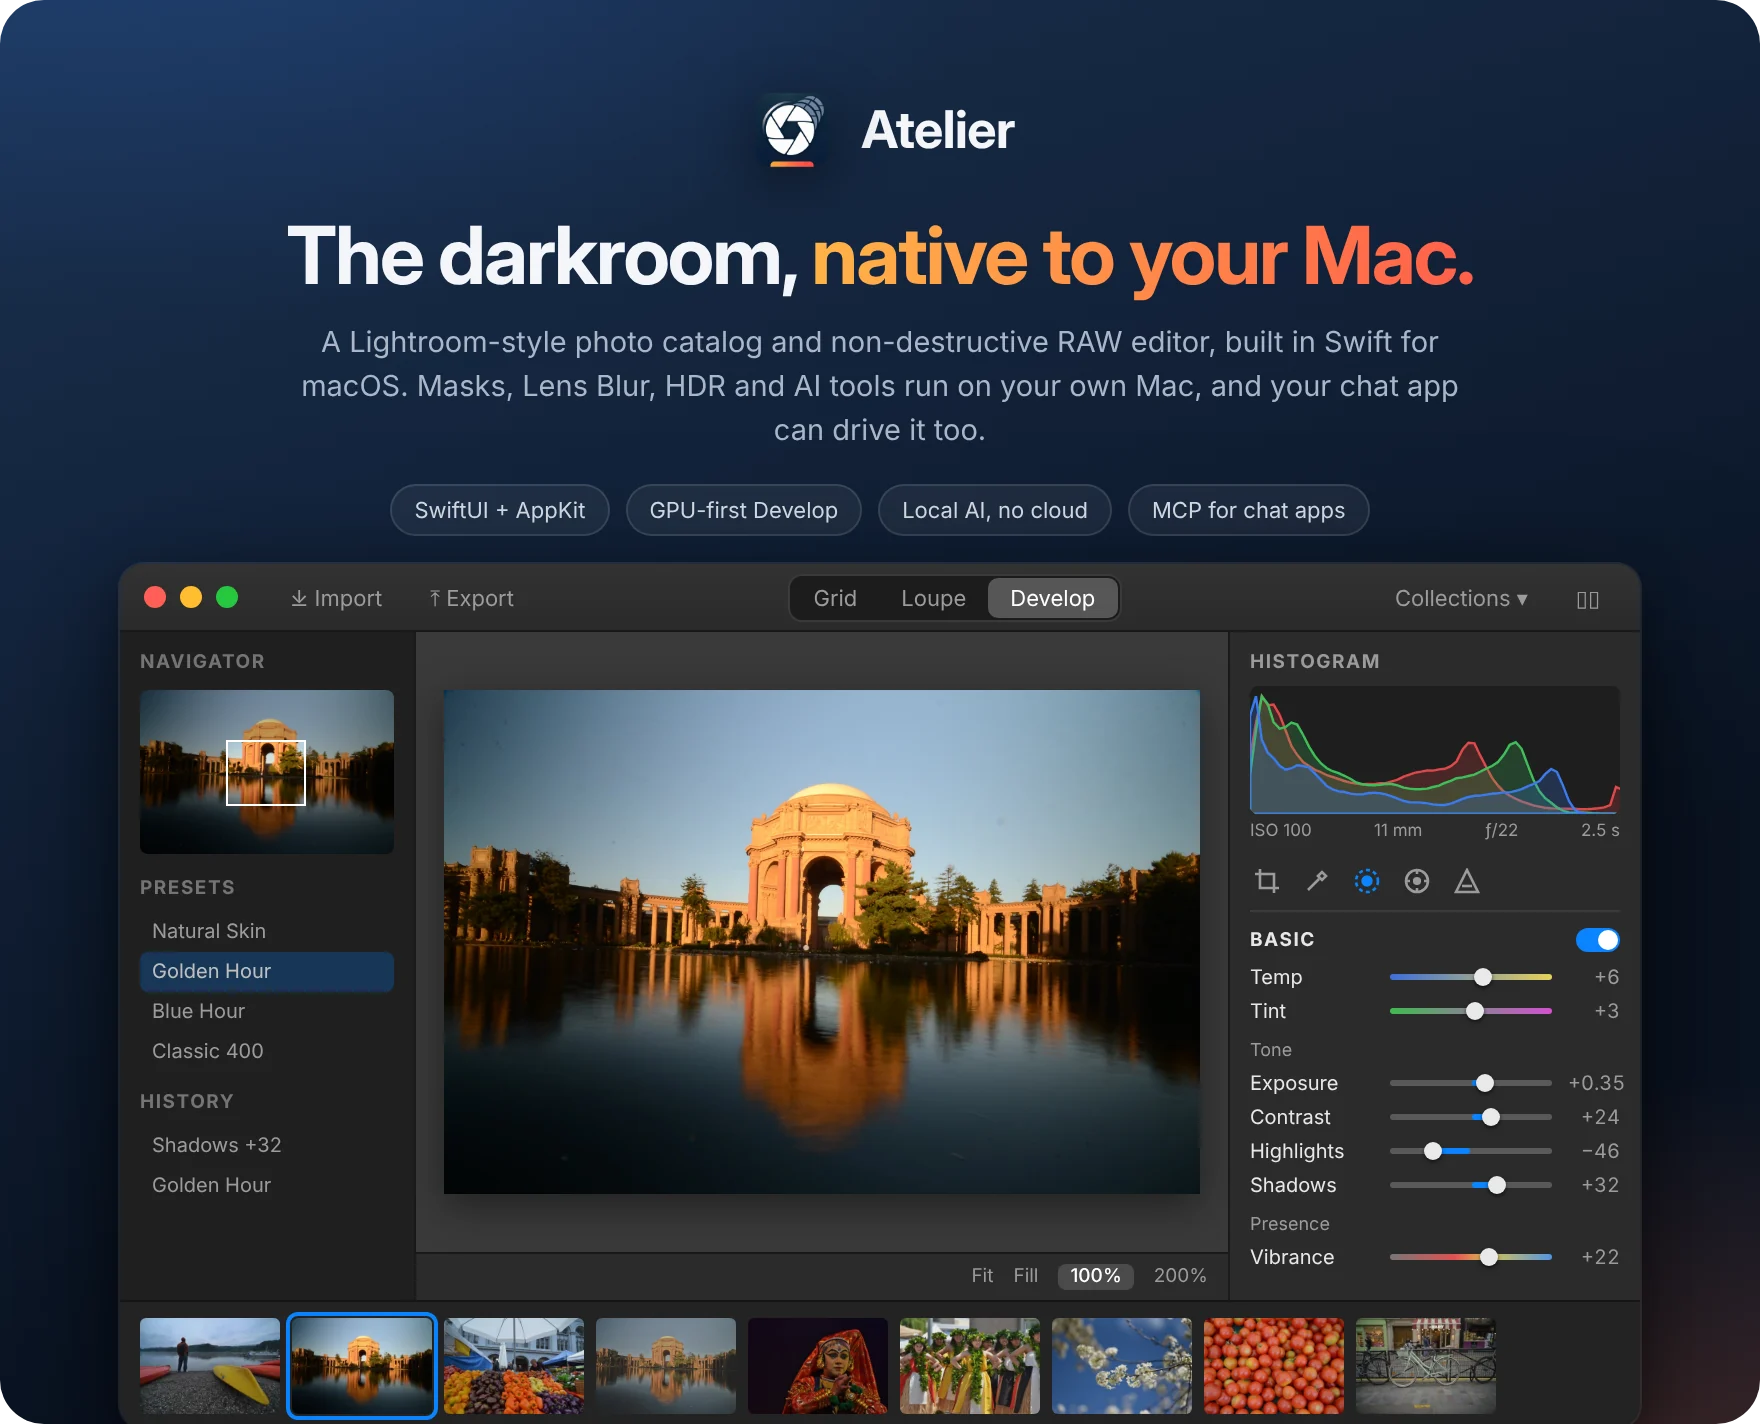
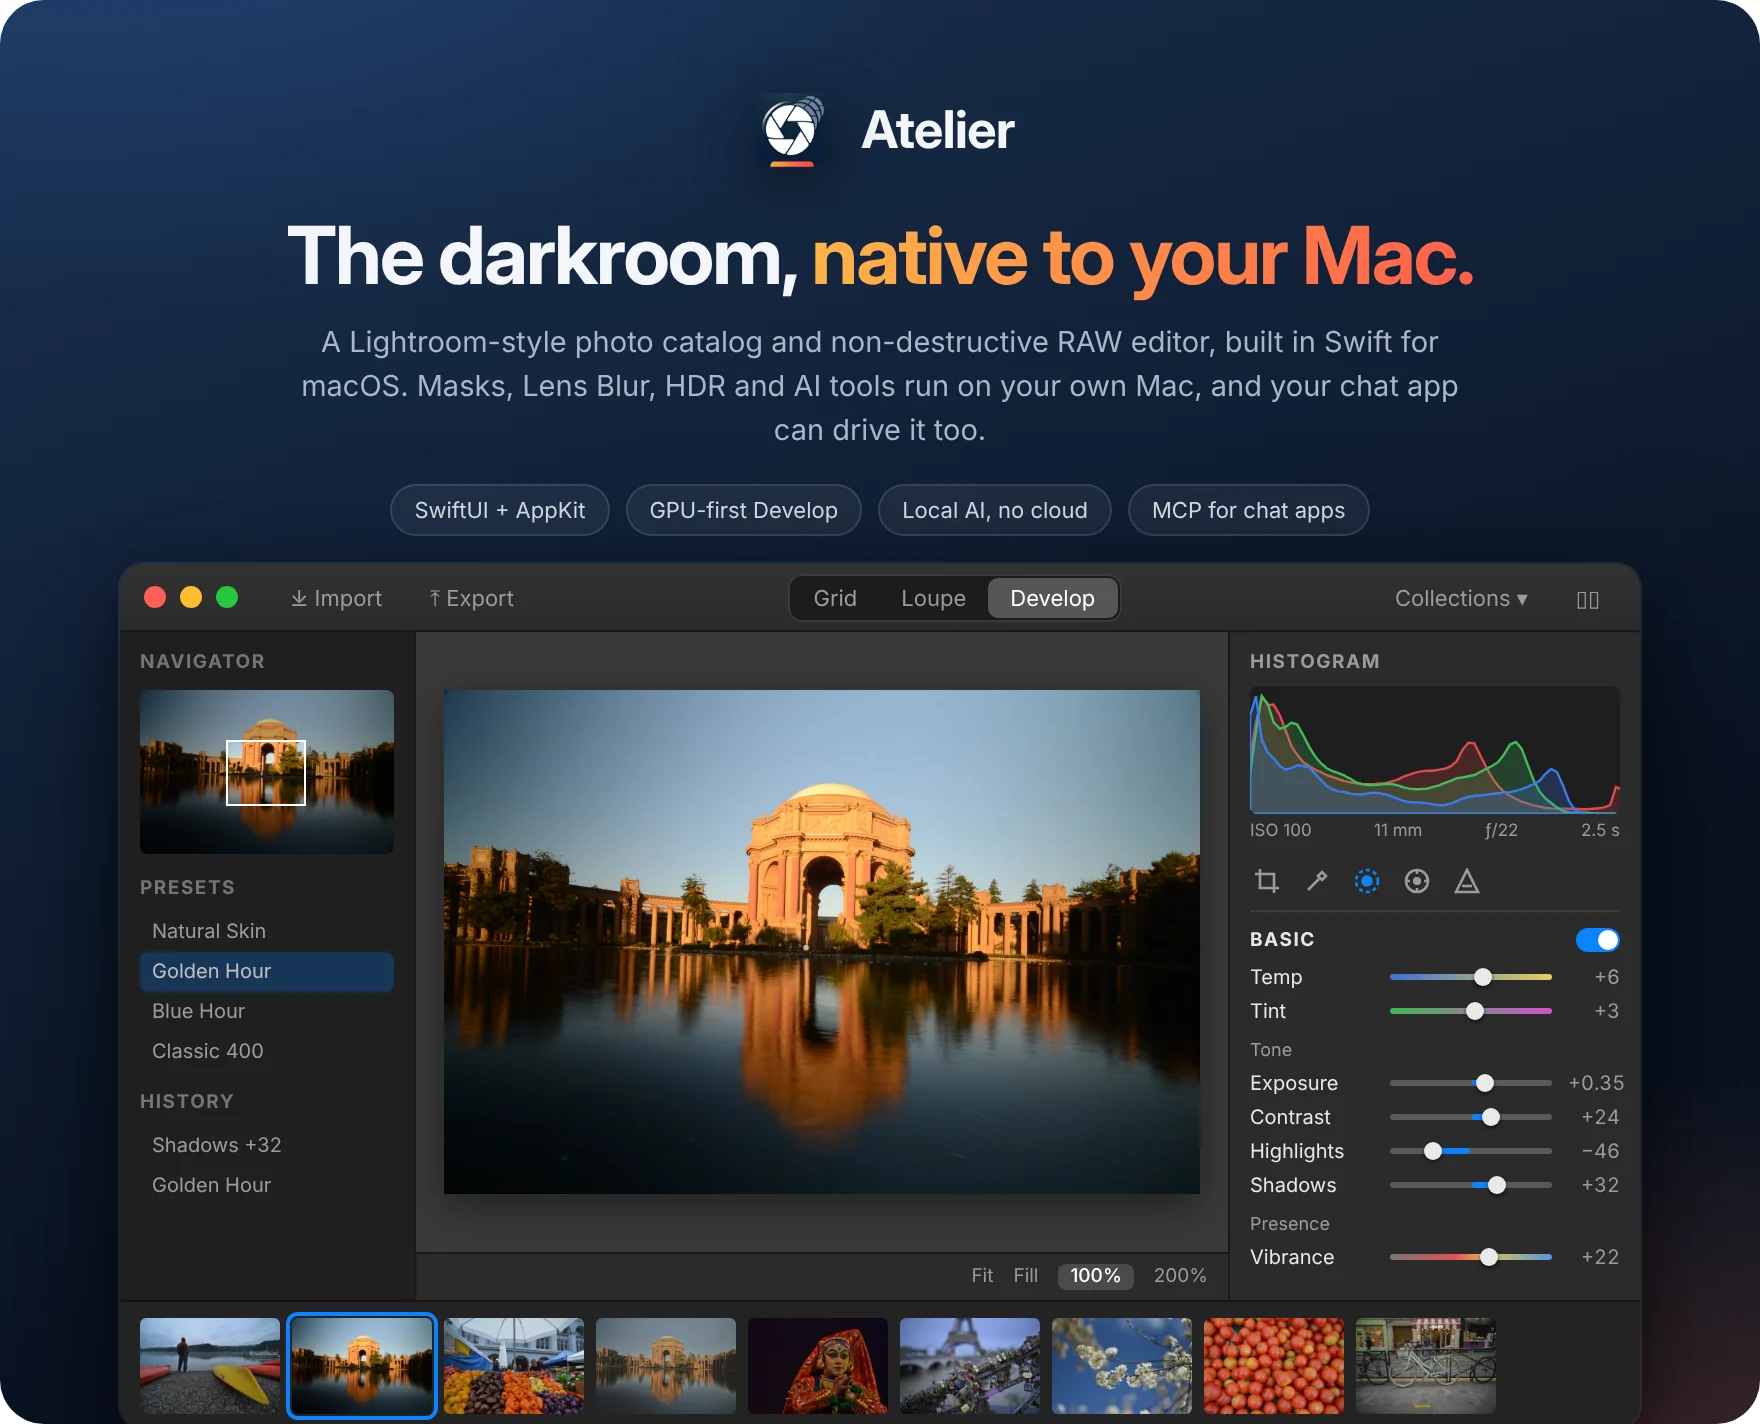
Help and README: strangers only (no family), new portrait scenes, Select Subject on the finch
Claude-Session: https://claude.ai/code/session_013w17eCR9WLeFMeHaTedCsn

Changed region(s): [[0.5, 0.927, 0.5938, 1.0]]

diff --git a/Sources/AtelierApp/Help/import.html b/Sources/AtelierApp/Help/import.html
@@ -94,7 +94,7 @@
     <div style="position:relative;background:#262626;height:300px;overflow:hidden">
       <div style="display:grid;grid-template-columns:repeat(6,minmax(0,1fr));gap:5px;padding:8px" data-pin="1">
         <div style="position:relative"><img src="images/thumbs/market.jpg" alt="" style="width:100%;aspect-ratio:4/3;object-fit:cover;border-radius:3px"><span style="position:absolute;right:3px;bottom:3px;color:#fff;background:#30d158;border-radius:50%;width:13px;height:13px;font-size:9px;text-align:center;line-height:13px">✓</span></div>
-        <div style="position:relative"><img src="images/thumbs/dancers.jpg" alt="" style="width:100%;aspect-ratio:4/3;object-fit:cover;border-radius:3px"><span style="position:absolute;right:3px;bottom:3px;color:#fff;background:#30d158;border-radius:50%;width:13px;height:13px;font-size:9px;text-align:center;line-height:13px">✓</span></div>
+        <div style="position:relative"><img src="images/thumbs/locks.jpg" alt="" style="width:100%;aspect-ratio:4/3;object-fit:cover;border-radius:3px"><span style="position:absolute;right:3px;bottom:3px;color:#fff;background:#30d158;border-radius:50%;width:13px;height:13px;font-size:9px;text-align:center;line-height:13px">✓</span></div>
         <div style="position:relative"><img src="images/thumbs/tomatoes.jpg" alt="" style="width:100%;aspect-ratio:4/3;object-fit:cover;border-radius:3px"><span style="position:absolute;right:3px;bottom:3px;color:#fff;background:#30d158;border-radius:50%;width:13px;height:13px;font-size:9px;text-align:center;line-height:13px">✓</span></div>
         <div style="position:relative"><img src="images/thumbs/golden-gate.jpg" alt="" style="width:100%;aspect-ratio:4/3;object-fit:cover;border-radius:3px"><span style="position:absolute;right:3px;bottom:3px;color:#fff;background:#30d158;border-radius:50%;width:13px;height:13px;font-size:9px;text-align:center;line-height:13px">✓</span></div>
         <div style="position:relative"><img src="images/thumbs/palace.jpg" alt="" style="width:100%;aspect-ratio:4/3;object-fit:cover;border-radius:3px"><span style="position:absolute;right:3px;bottom:3px;color:#fff;background:#30d158;border-radius:50%;width:13px;height:13px;font-size:9px;text-align:center;line-height:13px">✓</span></div>
@@ -106,7 +106,7 @@
         <div style="position:relative"><img src="images/thumbs/rose.jpg" alt="" style="width:100%;aspect-ratio:4/3;object-fit:cover;border-radius:3px;opacity:.3;filter:grayscale(1)"></div>
         <div style="position:relative"><img src="images/thumbs/kathakali-face.jpg" alt="" style="width:100%;aspect-ratio:4/3;object-fit:cover;border-radius:3px;opacity:.3;filter:grayscale(1)"></div>
         <div style="position:relative"><img src="images/thumbs/lake-bw.jpg" alt="" style="width:100%;aspect-ratio:4/3;object-fit:cover;border-radius:3px;opacity:.3;filter:grayscale(1)"></div>
-        <div style="position:relative"><img src="images/thumbs/fog-2.jpg" alt="" style="width:100%;aspect-ratio:4/3;object-fit:cover;border-radius:3px;opacity:.3;filter:grayscale(1)"></div>
+        <div style="position:relative"><img src="images/thumbs/temple-2.jpg" alt="" style="width:100%;aspect-ratio:4/3;object-fit:cover;border-radius:3px;opacity:.3;filter:grayscale(1)"></div>
         <div style="position:relative"><img src="images/thumbs/lanterns.jpg" alt="" style="width:100%;aspect-ratio:4/3;object-fit:cover;border-radius:3px;opacity:.3;filter:grayscale(1)"></div>
         <div style="position:relative"><img src="images/thumbs/blossoms.jpg" alt="" style="width:100%;aspect-ratio:4/3;object-fit:cover;border-radius:3px;opacity:.3;filter:grayscale(1)"></div>
         <div style="position:relative"><img src="images/thumbs/palace.jpg" alt="" style="width:100%;aspect-ratio:4/3;object-fit:cover;border-radius:3px;opacity:.3;filter:grayscale(1)"></div>

diff --git a/Sources/AtelierApp/Help/cull.html b/Sources/AtelierApp/Help/cull.html
@@ -44,8 +44,8 @@
           </div></div>
         <div><div style="color:#aaa;margin-bottom:4px">Same frame · 2 photos</div>
           <div style="display:flex;gap:5px">
-            <div style="position:relative;width:24%"><img src="images/thumbs/fog-1.jpg" alt="" style="border-radius:3px"><span style="position:absolute;right:3px;top:2px;color:#fff;background:#0a84ff;border-radius:50%;width:14px;height:14px;font-size:9px;text-align:center;line-height:14px">✓</span></div>
-            <img src="images/thumbs/fog-2.jpg" alt="" style="width:24%;border-radius:3px;opacity:.45">
+            <div style="position:relative;width:24%"><img src="images/thumbs/temple-1.jpg" alt="" style="border-radius:3px"><span style="position:absolute;right:3px;top:2px;color:#fff;background:#0a84ff;border-radius:50%;width:14px;height:14px;font-size:9px;text-align:center;line-height:14px">✓</span></div>
+            <img src="images/thumbs/temple-2.jpg" alt="" style="width:24%;border-radius:3px;opacity:.45">
           </div></div>
         <div><div style="color:#aaa;margin-bottom:4px">Single shots</div>
           <div style="display:flex;gap:5px"><img src="images/thumbs/golden-gate.jpg" alt="" style="width:16%;border-radius:3px"><img src="images/thumbs/clown.jpg" alt="" style="width:24%;border-radius:3px"></div></div>

diff --git a/Sources/AtelierApp/Help/workspace.html b/Sources/AtelierApp/Help/workspace.html
@@ -38,7 +38,7 @@
           <div class="cell"><img src="images/thumbs/palace.jpg" alt=""><div class="meta"><span>★</span><span></span></div></div>
           <div class="cell"><img src="images/thumbs/blossoms.jpg" alt=""><div class="meta"><span></span><span></span></div></div>
           <div class="cell"><img src="images/thumbs/tomatoes.jpg" alt=""><div class="meta"><span>★★★</span><span>✦ AI</span></div></div>
-          <div class="cell" style="opacity:.45"><img src="images/thumbs/dancers.jpg" alt=""><div class="meta"><span>✕</span><span></span></div></div>
+          <div class="cell" style="opacity:.45"><img src="images/thumbs/locks.jpg" alt=""><div class="meta"><span>✕</span><span></span></div></div>
         </div>
         <div class="status" data-pin="7"><span>42 photos · 1 selected</span><span>Imported 42 photos</span></div>
       </div>

diff --git a/Scripts/readme/hero.html b/Scripts/readme/hero.html
@@ -98,7 +98,7 @@
       <div style="background-image:url(../../Sources/AtelierApp/Help/images/thumbs/market.jpg)"></div>
       <div style="background-image:url(../../Sources/AtelierApp/Help/images/hdr-after.jpg)"></div>
       <div style="background-image:url(../../Sources/AtelierApp/Help/images/thumbs/kathakali.jpg)"></div>
-      <div style="background-image:url(../../Sources/AtelierApp/Help/images/thumbs/dancers.jpg)"></div>
+      <div style="background-image:url(../../Sources/AtelierApp/Help/images/thumbs/locks.jpg)"></div>
       <div style="background-image:url(../../Sources/AtelierApp/Help/images/thumbs/blossoms.jpg)"></div>
       <div style="background-image:url(../../Sources/AtelierApp/Help/images/thumbs/tomatoes.jpg)"></div>
       <div style="background-image:url(../../Sources/AtelierApp/Help/images/thumbs/bikes.jpg)"></div>

diff --git a/Scripts/help/prepare_photos.py b/Scripts/help/prepare_photos.py
@@ -39,14 +39,13 @@ PHOTOS = {
     "snow": ("DSC_0211", 2400),        # Chromatic aberration, Defringe
     "bay": ("RHN_3172", 1600),         # Straighten, Match Look
     "cars": ("DSC_0264", 1600),        # AI Remove Object
-    "bench": ("RDV_1309", 1600),       # Select Subject / Background
     "flower": ("DSC_0425", 1600),      # Post-crop vignette
     # Library, Grid, Filmstrip and Cull thumbnails
     "kayaks": ("DSC_0052", 800),
     "clown": ("DSC_0243", 800),
     "blossoms": ("RDV_7677", 800),
     "golden-gate": ("DSC_0099", 800),
-    "dancers": ("DSC_0037", 800),
+    "locks": ("_RZF1292", 800),
     "tomatoes": ("DSC_4803", 800),
     "lanterns": ("RDV_1489", 800),
     "bikes": ("_RZF0876", 800),
@@ -55,16 +54,16 @@ PHOTOS = {
     "flower-2": ("DSC_0426", 800),
     "flower-3": ("DSC_0433", 800),
     "flower-4": ("DSC_0425", 800),
-    "fog-1": ("DSC_0568", 800),        # Cull: same frame, a second apart
-    "fog-2": ("DSC_0569", 800),
+    "temple-1": ("RDV_1302", 800),     # Cull: same frame, a moment apart
+    "temple-2": ("RDV_1303", 800),
 }
 
 # Preset Lookbook and Match Look scenes (Scripts/presets/scenes): name: (NEF, crop x, y, w, h
-# as fractions or None). No children: the repo is public (Rosh, 2026-11-19).
+# as fractions or None). People: strangers only, no children and no family (Rosh, 2026-11-19).
 SCENES_OUT = os.path.join(os.path.dirname(os.path.dirname(os.path.abspath(__file__))), "presets", "scenes")
 SCENES = {
-    "portrait": ("DSC_0314", (0.22, 0.17, 0.54, 0.75)),        # a couple by the sea, faces large
-    "portrait-light": ("DSC_0315", (0.485, 0.22, 0.255, 0.62)), # one face in soft overcast light
+    "portrait": ("DSC_0243", (0.2, 0.08, 0.44, 0.92)),         # a clown at a fair, face large
+    "portrait-light": ("DSC_9090", (0.34, 0.28, 0.32, 0.62)),  # a shopkeeper behind the window
     "landscape": ("RHN_2983", None),       # dry golden hills
     "sky": ("DSC_0027", None),             # blue sky with white clouds
     "haze": ("DSC_0053", None),            # a headland in fog
@@ -72,7 +71,7 @@ SCENES = {
     "urban": ("_RZF1429", None),           # Paris at night
     "twilight": ("_RZF0572", None),
     "product": ("DSC_4804", None),         # white garlic
-    "forest": ("RDV_1307", None),          # lush green park
+    "forest": ("RDV_1307", (0.48, 0.0, 0.52, 0.52)),          # lush green park trees
     "wildlife": ("DSC_0046", None),
     "fine-art": ("_RZF1123", (0.375, 0.05, 0.22, 0.19)),       # the chapel's ceiling painting
 }

diff --git a/Scripts/help/make_help_images.py b/Scripts/help/make_help_images.py
@@ -957,12 +957,12 @@ def make_lens_blur_images(lake):
 
 
 def subject_mask(image):
-    """Select Subject on the man on the bench: GrabCut from a box around him (Vision's subject
-    mask stand-in), softened at the edge like Feather 20."""
+    """Select Subject on the finch: GrabCut from a box around it (Vision's subject mask
+    stand-in), softened at the edge like Feather 20."""
     H, W = image.shape[:2]
     img8 = (np.clip(image, 0, 1) * 255).astype(np.uint8)[..., ::-1].copy()
     mask = np.zeros((H, W), np.uint8)
-    rect = (int(W * 0.235), int(H * 0.49), int(W * 0.235), int(H * 0.45))
+    rect = (int(W * 0.225), int(H * 0.265), int(W * 0.15), int(H * 0.545))
     bgd, fgd = np.zeros((1, 65), np.float64), np.zeros((1, 65), np.float64)
     cv2.grabCut(img8, mask, rect, bgd, fgd, 6, cv2.GC_INIT_WITH_RECT)
     fg = np.isin(mask, (cv2.GC_FGD, cv2.GC_PR_FGD)).astype(np.uint8)
@@ -982,9 +982,9 @@ def thumbnails():
     kathakali = load("kathakali.jpg", width=1200)
     shots = {"lake": lake, "lake-warm": temperature(lake, 0.9), "lake-bw": bw(lake),
              "kathakali-face": crop(kathakali, 0.44, 0.16, 0.36, 0.5)}
-    for name in ("kayaks", "clown", "blossoms", "golden-gate", "dancers", "market", "tomatoes", "lanterns",
+    for name in ("kayaks", "clown", "blossoms", "golden-gate", "locks", "market", "tomatoes", "lanterns",
                  "bikes", "rose", "kathakali", "palace", "flower-1", "flower-2", "flower-3", "flower-4",
-                 "fog-1", "fog-2"):
+                 "temple-1", "temple-2"):
         shots[name] = kathakali if name == "kathakali" else load(f"{name}.jpg", width=None)
     for name, image in shots.items():
         h, w = image.shape[:2]
@@ -1173,7 +1173,7 @@ def main():
     radial = 1 - smoothstep(0.25, 1.0, ellipse)
     pair("mask-radial", base, mix(exposure(base, -0.35), exposure(base, 0.45), radial))
     save(red_overlay(base, radial), "mask-radial-overlay.jpg")
-    bench = load("bench.jpg")
+    bench = load("bird.jpg")
     bench_base = flat(bench)
     subject = subject_mask(bench)
     background = 1 - subject

diff --git a/Scripts/help/preset_lookbook.py b/Scripts/help/preset_lookbook.py
@@ -16,9 +16,9 @@ END = "<!-- END GENERATED LOOKS -->"
 
 SCENES = {
     # Rosh's own photos (Scripts/presets/scenes, made by Scripts/help/prepare_photos.py).
-    # No children: the repo is public.
-    "portrait": "A couple by the sea on an overcast day",
-    "portrait-light": "A woman by the sea in soft overcast light",
+    # Strangers only: no children and no family (the repo is public).
+    "portrait": "A clown at a fair",
+    "portrait-light": "A shopkeeper behind a shop window",
     "landscape": "Dry golden hills with a winding path",
     "sky": "A golf course under a blue sky with clouds",
     "haze": "A headland and a footbridge in fog",
@@ -26,7 +26,7 @@ SCENES = {
     "urban": "Paris at night from the Eiffel Tower",
     "twilight": "The Eiffel Tower at dusk",
     "product": "White garlic bulbs",
-    "forest": "A lush green park after rain",
+    "forest": "Lush green trees in a park after rain",
     "wildlife": "A finch on a branch",
     "fine-art": "A painted chapel ceiling in a gilded frame",
 }
